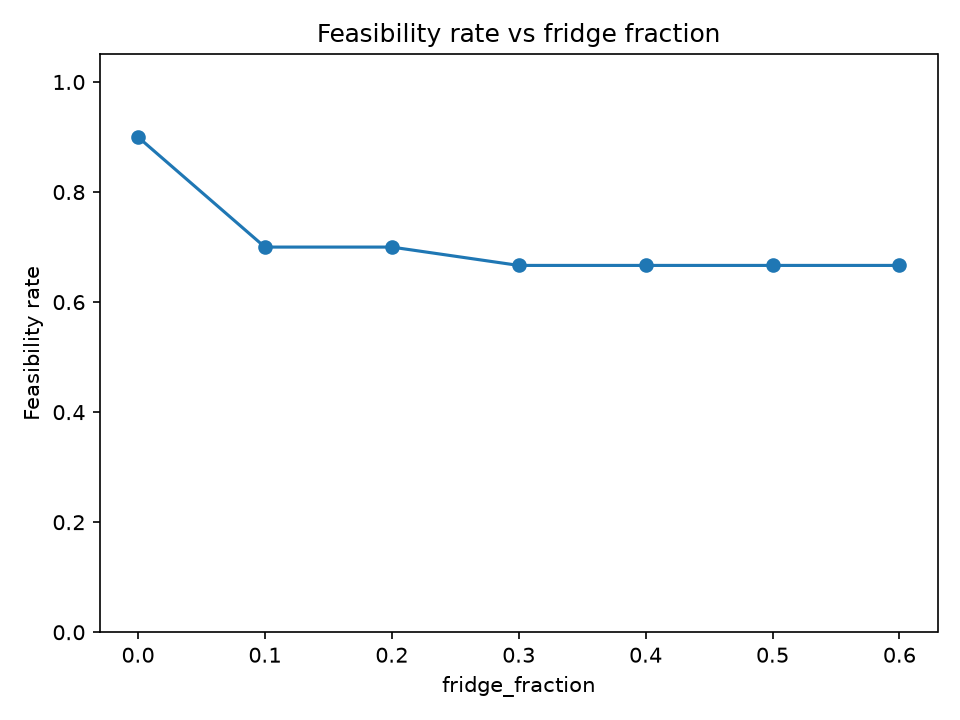
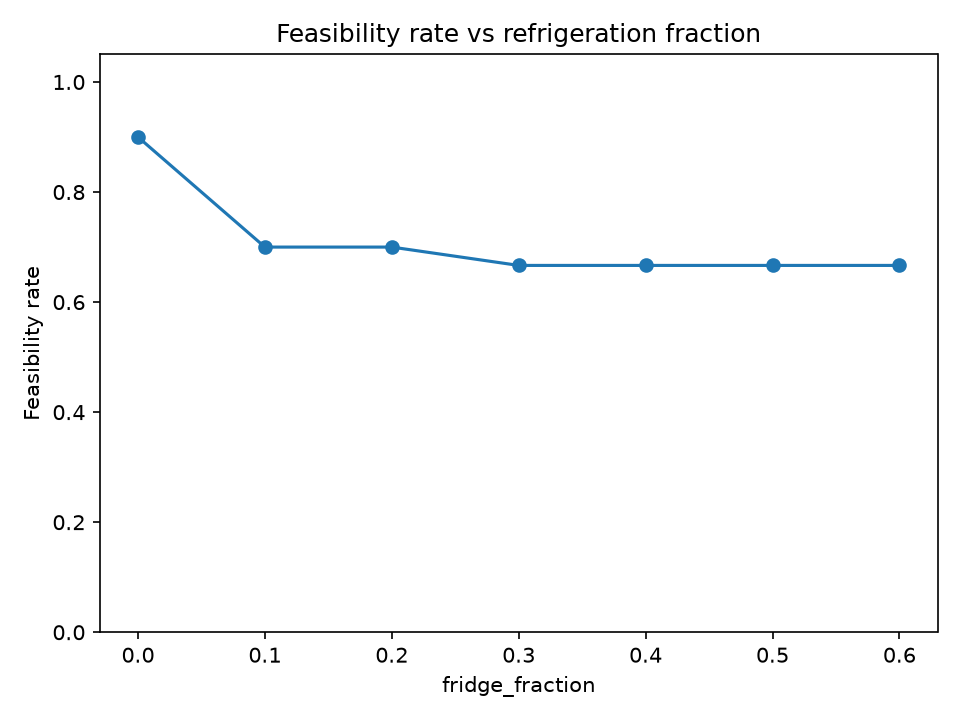
Restore original plot titles and make core-frequency tie order stable
Tightness, fridge and UNSAT-core plots are now pixel-identical to the ones
from the original experiment run; ties in the core-frequency chart are
ordered alphabetically instead of by Counter insertion order.

Changed region(s): [[0.2812, 0.0306, 0.7812, 0.0611]]

diff --git a/experiments/reproduce.py b/experiments/reproduce.py
@@ -156,8 +156,8 @@ def plots(results: Path) -> None:
     out = results / "plots"
     out.mkdir(parents=True, exist_ok=True)
     for name, key, png, title in [
-        ("exp_e_tightness.jsonl", "tightness", "tightness_curve.png", "Feasibility rate vs tightness"),
-        ("exp_e_fridge.jsonl", "fridge_fraction", "fridge_curve.png", "Feasibility rate vs fridge fraction"),
+        ("exp_e_tightness.jsonl", "tightness", "tightness_curve.png", "Feasibility rate vs capacity tightness"),
+        ("exp_e_fridge.jsonl", "fridge_fraction", "fridge_curve.png", "Feasibility rate vs refrigeration fraction"),
     ]:
         sweep = [SweepResult(key, r[key], r["feasible"], r["total"]) for r in read(name)]
         plot_feasibility_curve(sweep, out / png, title=title)

diff --git a/experiments/plots.py b/experiments/plots.py
@@ -76,7 +76,7 @@ def plot_core_frequency(
     if not counts:
         return
 
-    labels_sorted = sorted(counts, key=lambda k: -counts[k])
+    labels_sorted = sorted(counts, key=lambda k: (-counts[k], k))   # ties alphabetical, stable
     vals = [counts[k] for k in labels_sorted]
 
     plt.figure()
